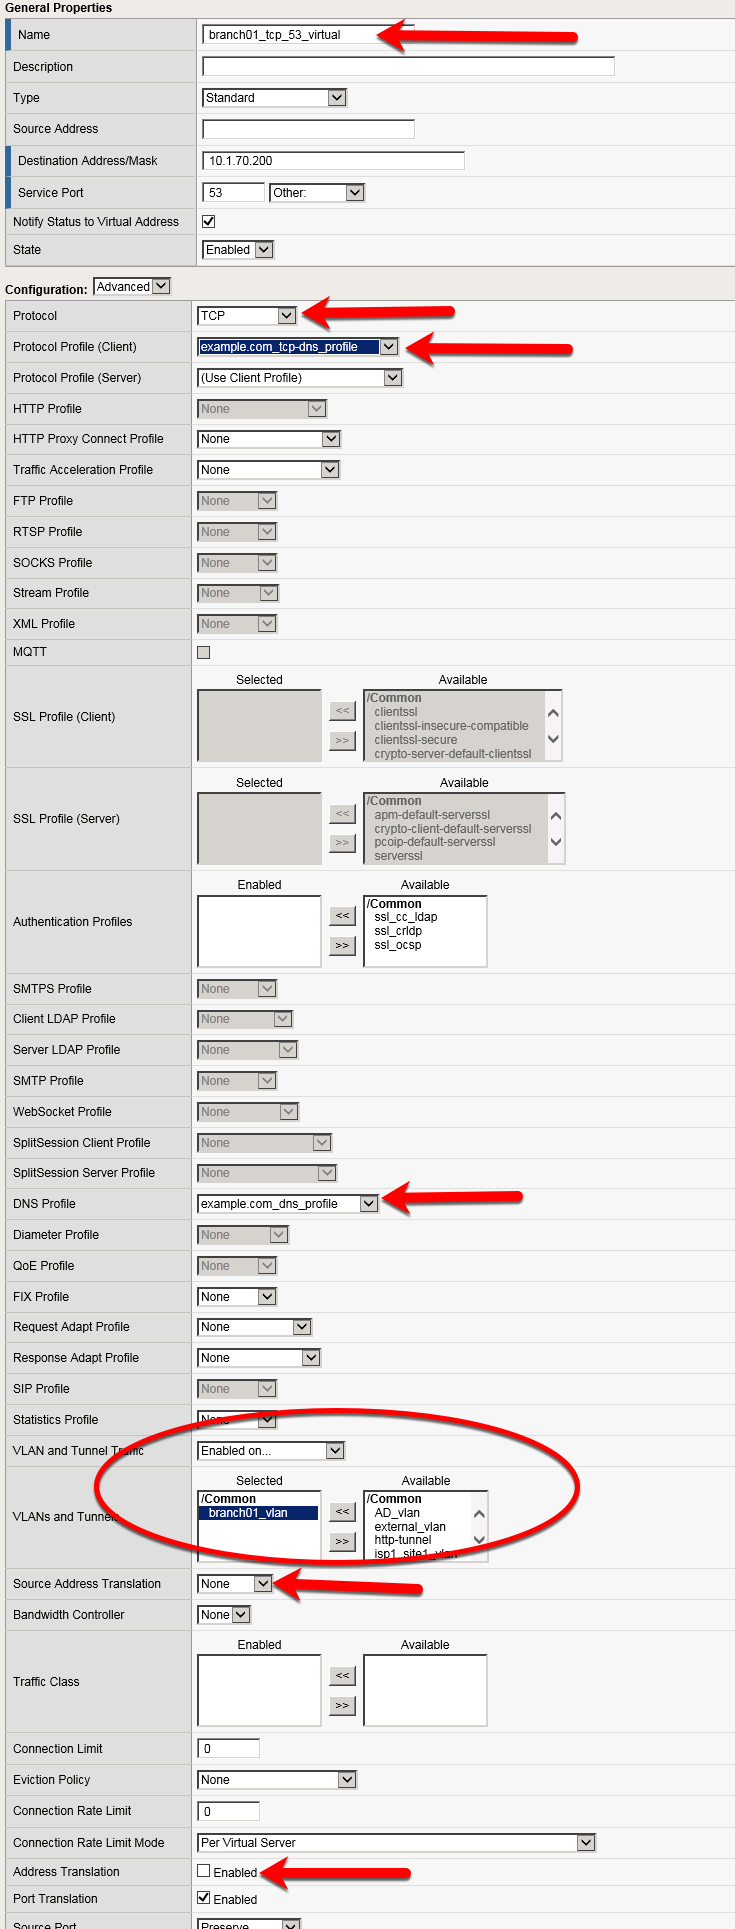
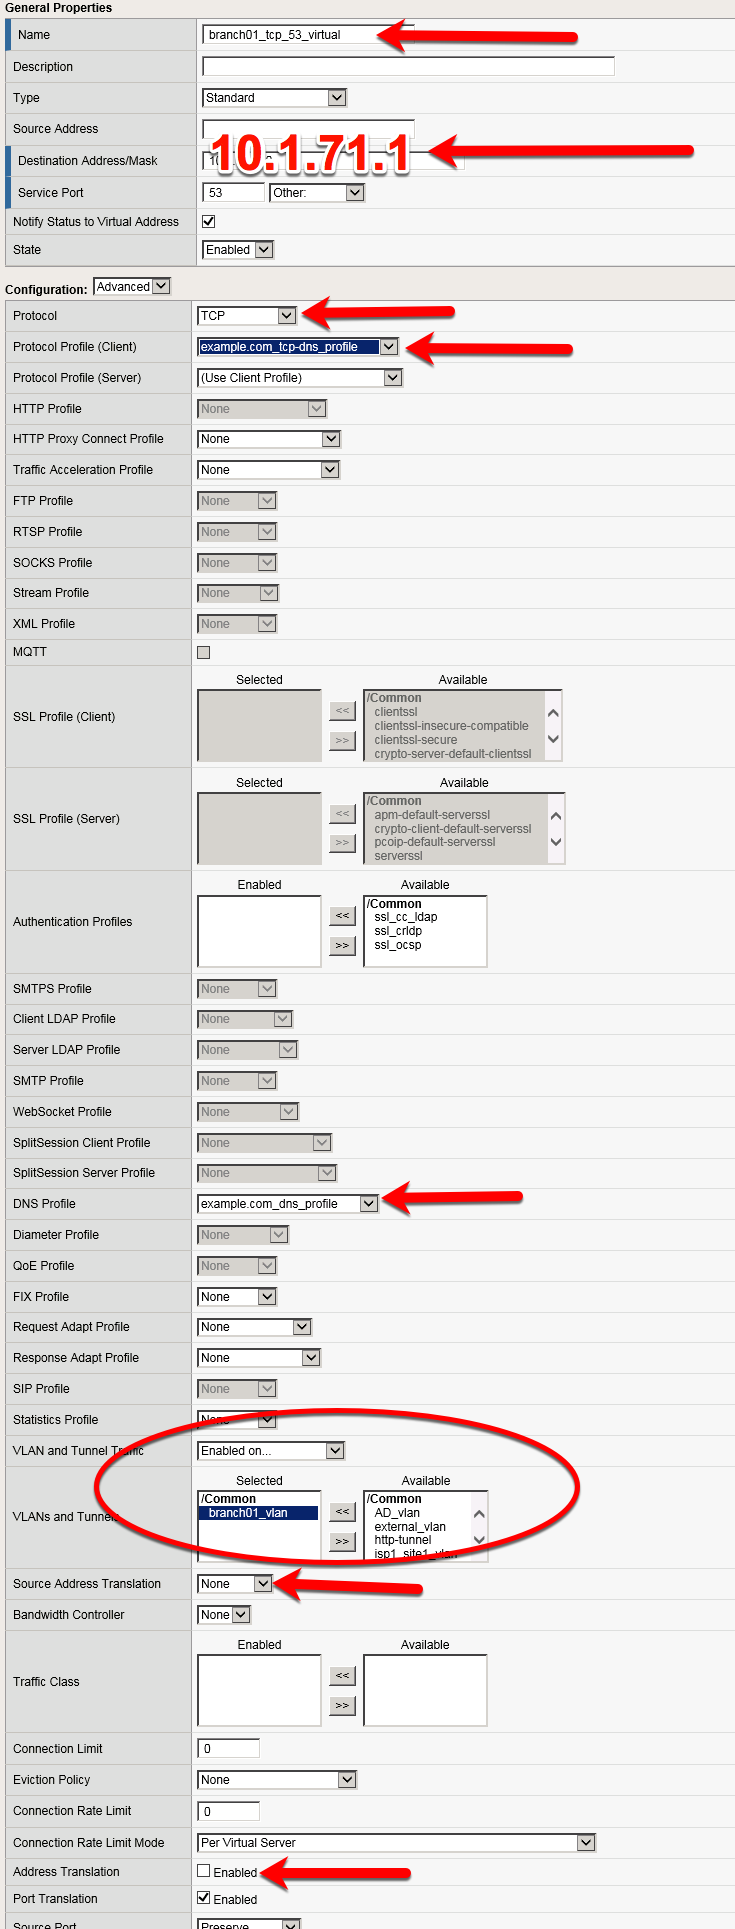
organizing class2

Changed region(s): [[0.2694, 0.0622, 0.9578, 0.0933]]

diff --git a/docs/class2/module1/lab7.rst b/docs/class2/module1/lab7.rst
@@ -1,0 +1,82 @@
+Results
+~~~~~~~~~~~~~~~~~~~~~~~~~~~~~~~~~~
+
+From the jumpbox open a command prompt, perform several recursive queries to your new listener to test.
+
+Repeat some of the same queries multiple times
+
+.. code-block:: console
+
+   dig www.f5.com
+   dig www.wikipedia.org
+   dig www.ncsu.edu
+   dig www.example.com
+
+Viewing Cache Entries
+
+Navigate to: **DNS  ››  Caches : Cache List  ››  Properties : resolver_cache** 
+
+https://router01.branch01.example.com/tmui/Control/jspmap/tmui/dns/cache/properties.jsp?name=%2FCommon%2Fresolver_cache
+
+.. image:: /_static/class2/router01_cache_select_statistics.png
+
+Navigate to: **Statistics  ››  Module Statistics : DNS : Caches  ››  Caches**
+
+https://router01.branch01.example.com/tmui/Control/jspmap/tmui/dns/cache/stats.jsp?name=%2FCommon%2Fresolver_cache&tab=dns_cache_resolver_config
+
+.. image:: /_static/class2/router01_cache_click_view.png
+
+Navigate to: **Statistics  ››  Module Statistics : DNS : Caches  ››  Caches : resolver_cache**
+
+https://router01.branch01.example.com/tmui/Control/jspmap/tmui/dns/cache/stats_detail.jsp?name=/Common/resolver_cache
+
+.. image:: /_static/class2/router01_cache_view_details.png
+
+.. admonition:: TMSH
+
+   tmsh show ltm dns cache records rrset cache resolver_cache
+
+.. image:: /_static/class2/tmsh_show_ltm_dns_cache_records.png
+
+.. admonition:: TMSH
+
+   tmsh show ltm dns cache resolver
+
+.. image:: /_static/class2/tmsh_show_ltm_dns_cache_resolver.png
+
+View cache entries for a particular domain / owner:
+
+.. admonition:: TMSH
+
+   tmsh show ltm dns cache records rrset cache resolver-cache owner f5.com
+
+View cache entries of a particular RR type:
+
+.. admonition:: TMSH
+
+   tmsh show ltm dns cache records rrset cache resolver-cache type NS
+
+Viewing Cache Statistics:
+
+.. admonition:: TMSH
+
+   tmsh show ltm dns cache resolver resolver-cache
+
+**Deleting Cache Entries**
+
+* Specific cache entries can be deleted via the TMSH console. Entries
+  to be deleted can be filtered by several aspects.
+* In the TMSH shell, go to the DNS prompt and type
+
+.. admonition:: TMSH
+
+   tmsh delete ltm dns cache records rrset cache resolver_cache ?
+
+**Clearing Entire Cache**
+
+Navigate to **Statistics > Module Statistics > DNS > Caches**
+
+Set “Statistics Type” to “Caches”.
+
+Select the cache and click “Clear Cache” to empty the cache.
+

diff --git a/docs/class2/module1/lab6.rst b/docs/class2/module1/lab6.rst
@@ -1,20 +1,20 @@
-UDP Virtual
+TCP Virtual
 ~~~~~~~~~~~~~~~~~~~~~~~~~~~~~~~~~~
 
 Navigate to: **Local Traffic  ››  Virtual Servers : Virtual Server List**
 
 https://router01.branch01.example.com/tmui/Control/jspmap/tmui/locallb/virtual_server/list.jsp?Filter=*
 
-Create a UDP listener.
+Create a TCP listener.
 
 .. csv-table::
    :header: "Setting", "Value"
    :widths: 15, 15
 
-   "Name", "branch01_udp_53_virtual"
+   "Name", "branch01_tcp_53_virtual"
    "Destination", "10.1.71.1:53"
-   "Protocol", "UDP"
-   "Protocol Profile (Client)", "example.com_udp-dns_profile"
+   "Protocol", "TCP"
+   "Protocol Profile (Client)", "example.com_tcp-dns_profile"
    "DNS Profile", "example.com_dns_profile"
    "VLAN and Tunnel Traffic -> Enabled on..", "branch01_vlan"
    "Address Translation", "unchecked"
@@ -22,11 +22,14 @@ Create a UDP listener.
 .. image:: /_static/class2/router01_create_virtual_flyout.png
    :width: 800
 
-.. image:: /_static/class2/router01_create_virtual_udp_properties.png
+.. image:: /_static/class2/router01_create_virtual_tcp_properties.png
    :width: 800
 
 TMSH commands for router01.branch01:
 
 .. admonition:: TMSH
 
-   tmsh create ltm virtual branch01_udp_53_virtual destination 10.1.71.1:domain ip-protocol udp mask 255.255.255.255 profiles add { example.com_dns_profile { } example.com_udp-dns_profile { } } source 0.0.0.0/0 source-address-translation { type automap } translate-address disabled translate-port enabled vlans add { branch01_vlan } vlans-enabled
+   tmsh create ltm virtual branch01_tcp_53_virtual destination 10.1.71.1:domain ip-protocol tcp mask 255.255.255.255 profiles add { example.com_dns_profile { } example.com_tcp-dns_profile { } } translate-address disabled vlans add { branch01_vlan } vlans-enabled
+
+
+https://support.f5.com/kb/en-us/products/big-ip_ltm/manuals/product/bigip-dns-cache-implementations-11-3-0/2.html

diff --git a/docs/class2/module1/lab4.rst b/docs/class2/module1/lab4.rst
@@ -1,32 +1,25 @@
-UDP Virtual
+TCP Profile
 ~~~~~~~~~~~~~~~~~~~~~~~~~~~~~~~~~~
 
-Navigate to: **Local Traffic  ››  Virtual Servers : Virtual Server List**
+Navigate to: **Local Traffic  ››  Profiles : Protocol : TCP**
 
-https://router01.branch01.example.com/tmui/Control/jspmap/tmui/locallb/virtual_server/list.jsp?Filter=*
+https://router01.branch01.example.com/tmui/Control/jspmap/tmui/locallb/profile/tcp/list.jsp?
 
-Create a UDP listener.
-
+Create a TCP profile as shown in the following table.
+ 
 .. csv-table::
    :header: "Setting", "Value"
    :widths: 15, 15
 
-   "Name", "branch01_udp_53_virtual"
-   "Destination", "10.1.70.200:53"
-   "Protocol", "UDP"
-   "Protocol Profile (Client)", "example.com_udp-dns_profile"
-   "DNS Profile", "example.com_dns_profile"
-   "VLAN and Tunnel Traffic -> Enabled on..", "branch01_vlan"
-   "Address Translation", "unchecked"
+   "Name", "example.com_tcp-dns_profile"
+   "Parent Profile", "udp_gtm_dns"
 
-.. image:: /_static/class2/router01_create_virtual_flyout.png
+.. image:: /_static/class2/router01_create_tcp_profile.png
    :width: 800
 
-.. image:: /_static/class2/router01_create_virtual_udp_properties.png
+.. image:: /_static/class2/router01_create_tcp_profile_properties.png
    :width: 800
-
-TMSH commands for router01.branch01:
 
 .. admonition:: TMSH
 
-   tmsh ltm virtual branch01_udp_53_virtual { destination 10.1.71.1:domain ip-protocol udp mask 255.255.255.255 profiles { example.com_dns_profile { } example.com_udp-dns_profile { } } source 0.0.0.0/0 source-address-translation { type automap } translate-address disabled translate-port enabled vlans { branch01_vlan } vlans-enabled }
+   tmsh create ltm profile tcp example.com_tcp-dns_profile defaults-from f5-tcp-lan

diff --git a/docs/class2/module1/lab2.rst b/docs/class2/module1/lab2.rst
@@ -23,12 +23,13 @@ Create a DNS profile as shown in the table below.
 .. image:: /_static/class2/router01_ltm_profile_dns.png
    :width: 800
 
-.. image:: /_static/class2/dns_profile_settings_router01.png
+.. image:: /_static/class2/dns_profile_settings_cache_router01.png
    :width: 800
 
 TMSH commands for router01.branch01:
 
 .. admonition:: TMSH
 
-   tmsh create ltm profile dns example.com_dns_profile use-local-bind no unhandled-query-action drop log-profile example_dns_logging_profile enable-logging yes avr-dnsstat-sample-rate 1 enable-cache yes cache resolver_cache
+   tmsh create ltm profile dns example.com_dns_profile { app-service none avr-dnsstat-sample-rate 1 cache resolver_cache defaults-from dns enable-cache yes enable-dns-express no enable-dnssec no enable-gtm no enable-logging yes log-profile example_dns_logging_profile unhandled-query-action drop use-local-bind no }
+
 

diff --git a/docs/class1/class1.rst b/docs/class1/class1.rst
@@ -1,4 +1,4 @@
-Global Server Load Balancing
+Availability
 =============================================
 
 * Students will configure F5 DNS servers to support GSLB services on a single device in site1.

diff --git a/docs/class2/module3/module3.rst b/docs/class2/module3/module3.rst
@@ -1,4 +1,4 @@
-Slave from Hidden Master
+Hidden Master
 =========================
 
 TODO: Include description of what this module accomplishes

diff --git a/docs/class2/module5/module5.rst b/docs/class2/module5/module5.rst
@@ -1,0 +1,11 @@
+iRules
+-------------------
+
+TODO: create the RPZ lab
+
+.. toctree::
+   :hidden:
+   :maxdepth: 2
+   :glob:
+
+   lab*

diff --git a/docs/class2/class2.rst b/docs/class2/class2.rst
@@ -1,4 +1,4 @@
-|bip| |dns|
+Security
 =============================
 
 TODO create a nice overview page here
